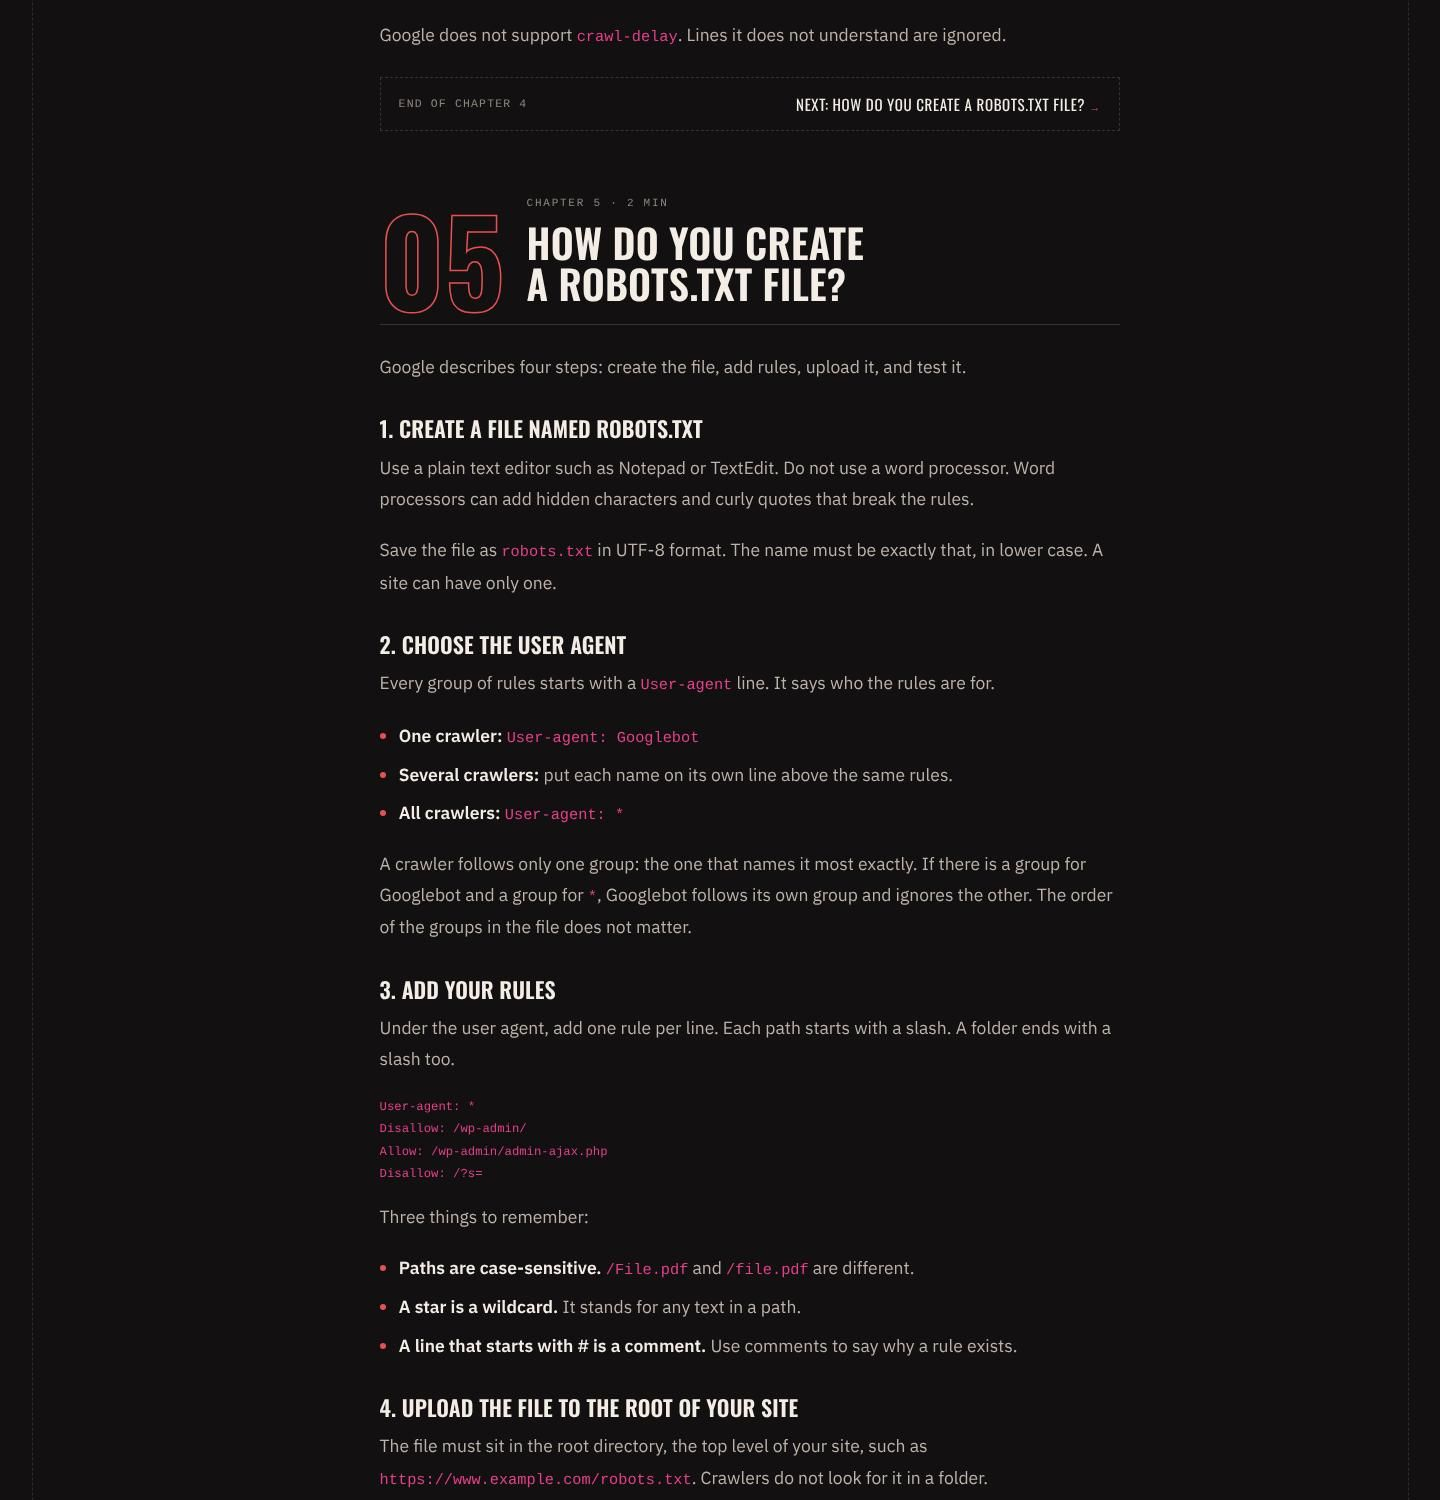
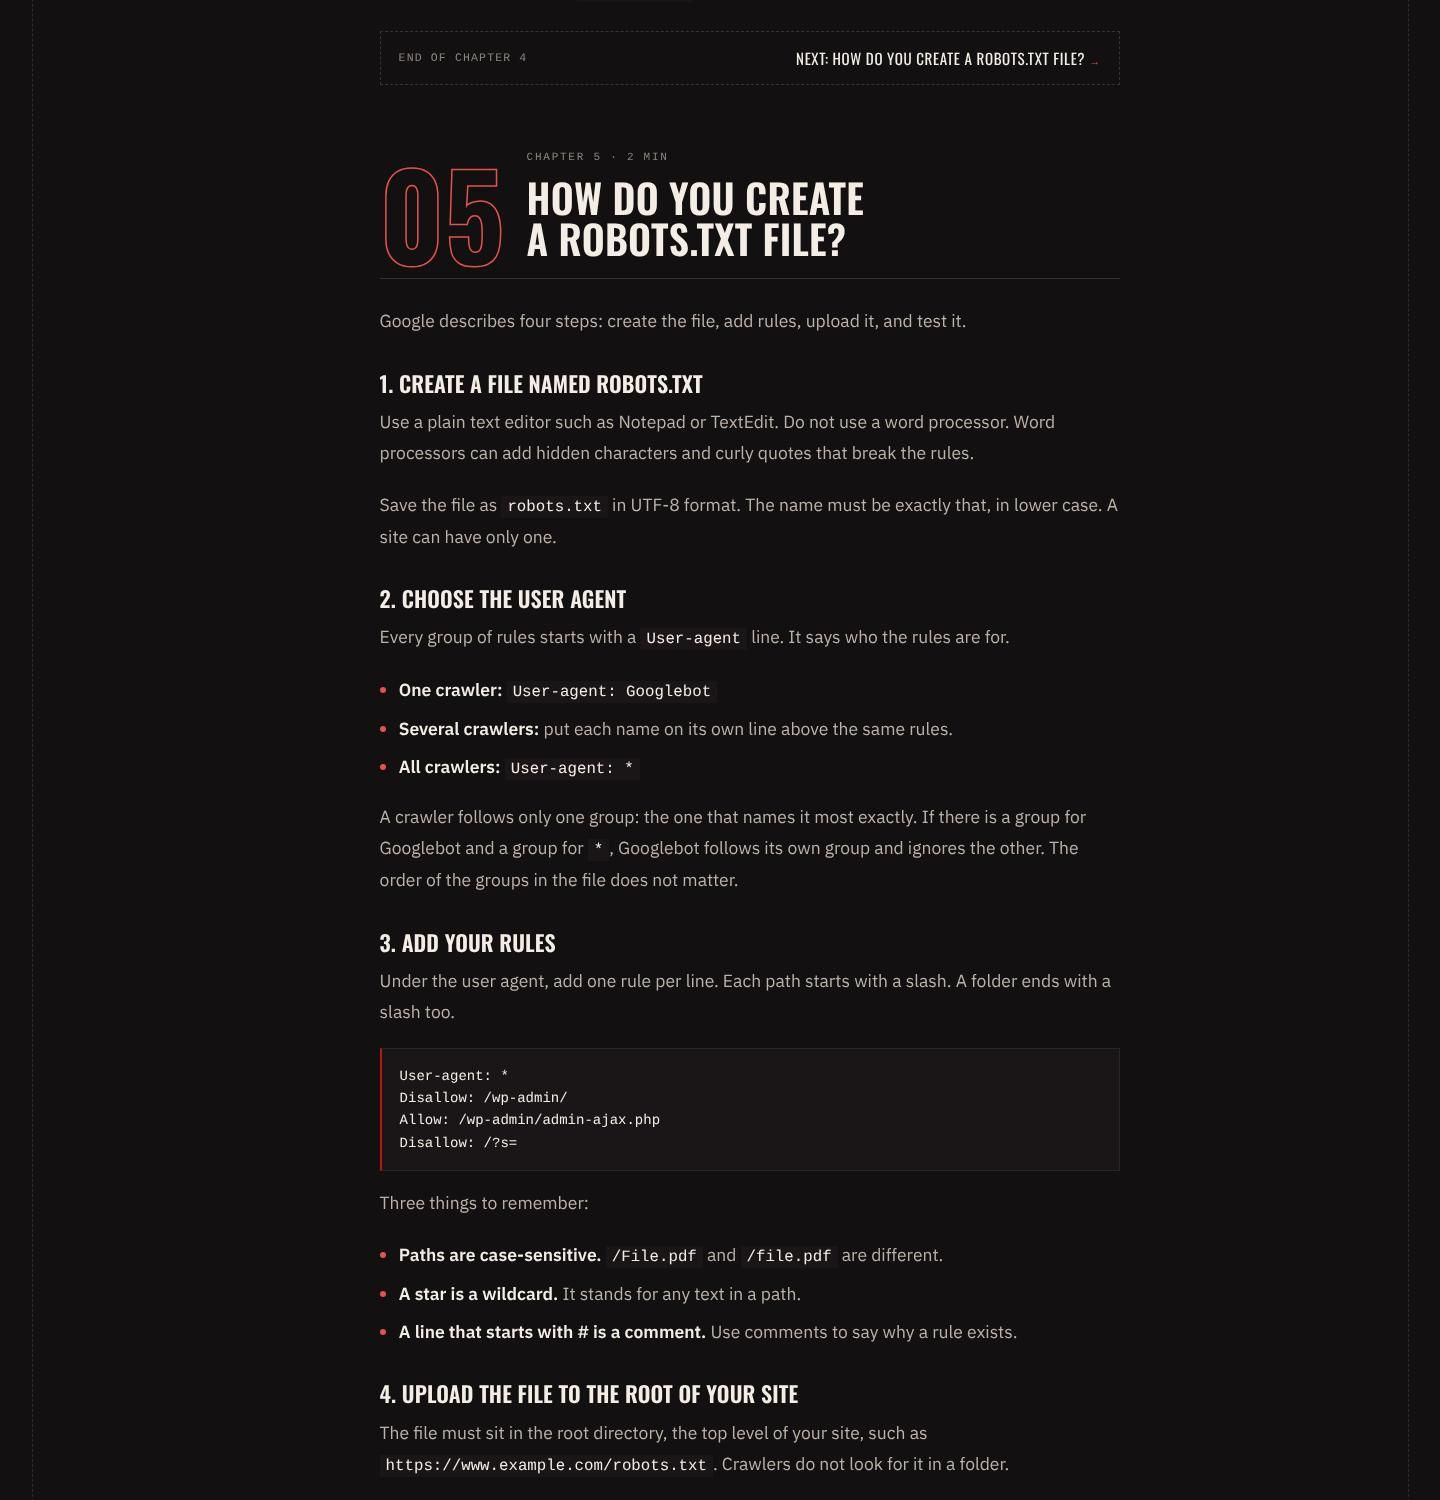
D-237: code in posts uses brand colours; robots.txt post titles approved
Claude-Session: https://claude.ai/code/session_019an29UFnSXztgXUtuvCi8R

diff --git a/wp/novamira-sandbox/blog/reinforce-post.php b/wp/novamira-sandbox/blog/reinforce-post.php
@@ -236,9 +236,10 @@ body.rl-post-page .fl-page-content,body.rl-post-page .fl-content,body.rl-post-pa
 .rl-post .body table{width:100%;border-collapse:collapse;font-size:15px}
 .rl-post .body th,.rl-post .body td{border:1px solid var(--line-2);padding:10px 12px;text-align:left;vertical-align:top}
 .rl-post .body th{color:var(--ink);background:var(--panel);font-weight:600}
-.rl-post .body code{font-family:var(--f-mono);font-size:.9em;background:var(--panel);padding:2px 6px;color:var(--ink)}
-.rl-post .body pre{background:var(--panel);border:1px solid var(--line);padding:16px;overflow-x:auto}
-.rl-post .body pre code{padding:0;background:none}
+/* code in every post type, brand colours instead of the theme's pink (D-237) */
+.rl-post code{font-family:var(--f-mono);font-size:.9em;background:var(--panel);padding:2px 6px;color:var(--ink);word-break:break-word}
+.rl-post pre{background:var(--panel);border:1px solid var(--line);border-left:2px solid var(--red-2);padding:16px 18px;overflow-x:auto;font-size:14px;line-height:1.6;color:var(--ink);margin:1.2em 0}
+.rl-post pre code{padding:0;background:none;font-size:inherit;word-break:normal;white-space:pre}
 .rl-post .body hr{border:0;border-top:1px solid var(--line);margin:2em 0}
 .rl-post .faqp{margin-top:48px}
 .rl-post .faqp h2,.rl-post .src h2{font-family:var(--f-display);font-weight:600;text-transform:uppercase;color:var(--ink);font-size:clamp(24px,2.8vw,30px);margin:0 0 16px}

diff --git a/claude/decision-log.md b/claude/decision-log.md
@@ -25,6 +25,7 @@ Newest month first; within a month, entries are in the order they appear in the 
 | F-047 | Production Plugins screen (Jamil's screenshot, 22 Oct): WordPress 7.1.3 (current); 26 plugins, 24 active; WP File Manager removed; WooCommerce 11.2.1. Must-Use 2 (Hostinger), Drop-in 1 (LiteSpeed object cache). Licences expired, so updates blocked: Beaver Builder Pro 2.9.4.1 (2.11.1.2 out), Beaver Themer 1.5.2.1 (1.6.1 out), Yoast SEO Premium 28.4 (28.7 out). "Reinforce Lab Builder" 1.37.8 is Ultimate Addons for Beaver Builder white-labelled (`bb-ultimate-addon`); Jamil confirmed 23 Oct he white-labelled it. Inactive: PDF Invoices & Packing Slips, StackWC Order Notification. Plugin File Editor menu visible (no `DISALLOW_FILE_EDIT`). The same paid licences are needed for the new site at launch | 22 Oct | `[VERIFIED]` from screenshot | this file |
 | F-046 | Production `wp-content/mu-plugins/` (Jamil's screenshot, 22 Oct): only `hostinger-auto-updates.php` (10.8 KiB) and `hostinger-preview-domain.php` (29.29 KiB), the same sizes as Hostinger's copies on `.online` (11,055 and 29,989 bytes). No `health-check-api.php`. Clean | 22 Oct | `[VERIFIED]` | this file |
 | F-045 | **Fake plugin removed from production (22 Oct, Jamil).** `wp-content/plugins/lunar-profiler-ink/` now answers 404 like a missing folder (was 403). Jamil also removed `cartflows-pro`, `custom-post-type-ui` and `woocommerce-checkout-manager`. Home still 200 and full. Still open: `wp-file-manager` (200), `mu-plugins` contents (changed 22 Oct), top of `wp-config.php`, admin users, WPCode snippets, cron, Search Console live test | 22 Oct | `[VERIFIED]` read-only | this file |
+| D-237 | **Code in posts uses brand colours; robots.txt post titles approved (Jamil, 12 Nov: titles "Change the recommended one", code colour "Okay").** (1) Inline code and code blocks in every post type now use the brand palette (panel background, off-white text, thin border, red left rule on blocks) instead of the theme's default pink: the existing rules only matched the plain post body, so the Guide and other templates fell back to the theme; selectors widened to `.rl-post code` and `.rl-post pre`. Deployed guarded, live equals git, phone 390 checked on 3 posts. (2) Approved for the robots.txt rewrite: page title "Robots.txt for SEO: A Complete Guide", SEO title "Robots.txt for SEO: A Complete Guide (2026) \| Reinforce Lab", updated date 12 Nov 2026. The post itself is still a draft: the first-hand line about Reinforce Lab's own robots.txt awaits Jamil's answer | 12 Nov | (1) DONE on `.online`; (2) APPROVED, not yet published | `blog/reinforce-post.php` |
 | F-061 | **First post rewrite drafted for approval: `/robots-txt-for-seo-a-complete-guide/` (Jamil, 12 Nov: three segments shown, "get started with the segment first").** Segments by value in `claude/research/audit-2026-11/post-segments.md` (21, 40, 20 posts). Post rules followed (D-134): keyword "robots.txt" (6,600 US searches a month, KD 14; Search Console 80,460 impressions, 41 clicks); 14 ranking pages listed, 10 read (`claude/research/serp/robots-txt/report.md`; search results, not Google's verified order); facts taken from Google's three robots.txt documents, Google's crawler list and OpenAI's crawler page, all read on 12 Nov. Draft: `claude/drafts/posts/robots-txt-body-2026-11-12.html` and `robots-txt-post-2026-11-12.json` (Guide type, 11 chapters, short answer, 6 takeaways, 8 FAQs, glossary, 6 sources, 3 tables, 8 code examples). Checks: reading grade 4.0 (limit 8), copy-check 0, title 59 and description 151 characters, renders in the live Guide template in memory (nothing saved), schema BlogPosting, Person, FAQPage, DefinedTermSet. Old post: 2,051 words, grade 6.9, 1 outside link, errors such as "place the robots.txt files on your computer". Kept from the old post: its topics and order (what it is, why it matters, what it looks like, how to create one, robots.txt against meta tags). Proposed title "Robots.txt for SEO: A Complete Guide" with "(2026)" in the SEO title, real updated date 12 Nov 2026 (D-220). For Jamil: one first-hand line says Reinforce Lab allows AI search crawlers on its own site (true of the planned launch robots.txt, D-150). Found: inline code and code blocks in posts show in a pink that is not a brand colour (theme default); needs a small template style. **Not published; waiting for approval.** The scheduled Day 2 task (AI answers) fired on 12 Nov after Jamil moved the plan to pages and posts; not run, his call | 12 Nov | DRAFT for approval | `claude/drafts/posts/` |
 | F-060 | **Semrush US positions for reinforcelab.com, 11 Nov export (Jamil, 12 Nov), against 26 Oct (F-051).** Production, read from Jamil's export only. 553 rows (538): organic 542 (527), image pack 7, AI Overview 4. Organic: 1 in the top 3 (0), 15 in the top 10 (15), 38 in the top 20 (32); Semrush traffic estimate 32 US visits a month (19). Almost flat: of keywords in both exports 12 rose, 28 fell, 420 unchanged; none that was in the top 20 was lost. Best: `/flywheel-wordpress-hosting/` cited 1st in the AI Overview for "flywheel hosting" (1,000 a month) and 5th organic; "sales techniques senses appeal to customers" 1st (70). Falls: "successful digital marketing campaigns 2023 2024" 27 to 52 (2,900), "online marketing strategies" 63 to 79, "ux writing vs copywriting" 29 to 63. Home ranks for no US keyword in the export; service pages rank only from position 25 down, all on old addresses that the approved map redirects. Saved as `claude/data/semrush/organic-positions-us-2026-11-11.csv` | 12 Nov | `[VERIFIED from the export]` | `claude/data/semrush/` |
 | F-059 | **Primary keyword proposed for each of the 81 carried posts, and a rewrite order (Jamil's two Semrush US exports, 12 Nov, 156 keywords).** Saved in `claude/data/semrush/post-keywords-run1-` and `-run2-us-2026-11-12.csv`; map in `claude/research/audit-2026-11/post-keyword-map.md`. Groups: posts that are easy and worth rewriting first (KD 35 or less with 800 or more searches, for example robots.txt 6,600 KD 14, digital marketing strategies 5,400 KD 15, b2b seo agency 4,400 KD 26, social media management 27,100 KD 32); posts already earning 100 or more clicks, to rewrite with care; long-tail posts where Search Console shows the demand and Semrush does not; very hard terms left for last. Review posts target "<product> review", not the product name. Nothing changed on `.online`; the rewrite rules stand (one at a time, grade 8, top-10 analysis, no bulk changes). Firecrawl connector became available in the session on 12 Nov (billed per request), usable for competitor pages that block the server fetch | 12 Nov | `[VERIFIED]` data; `[RECOMMENDATION]` primaries, for approval | `claude/research/audit-2026-11/post-keyword-map.md` |
